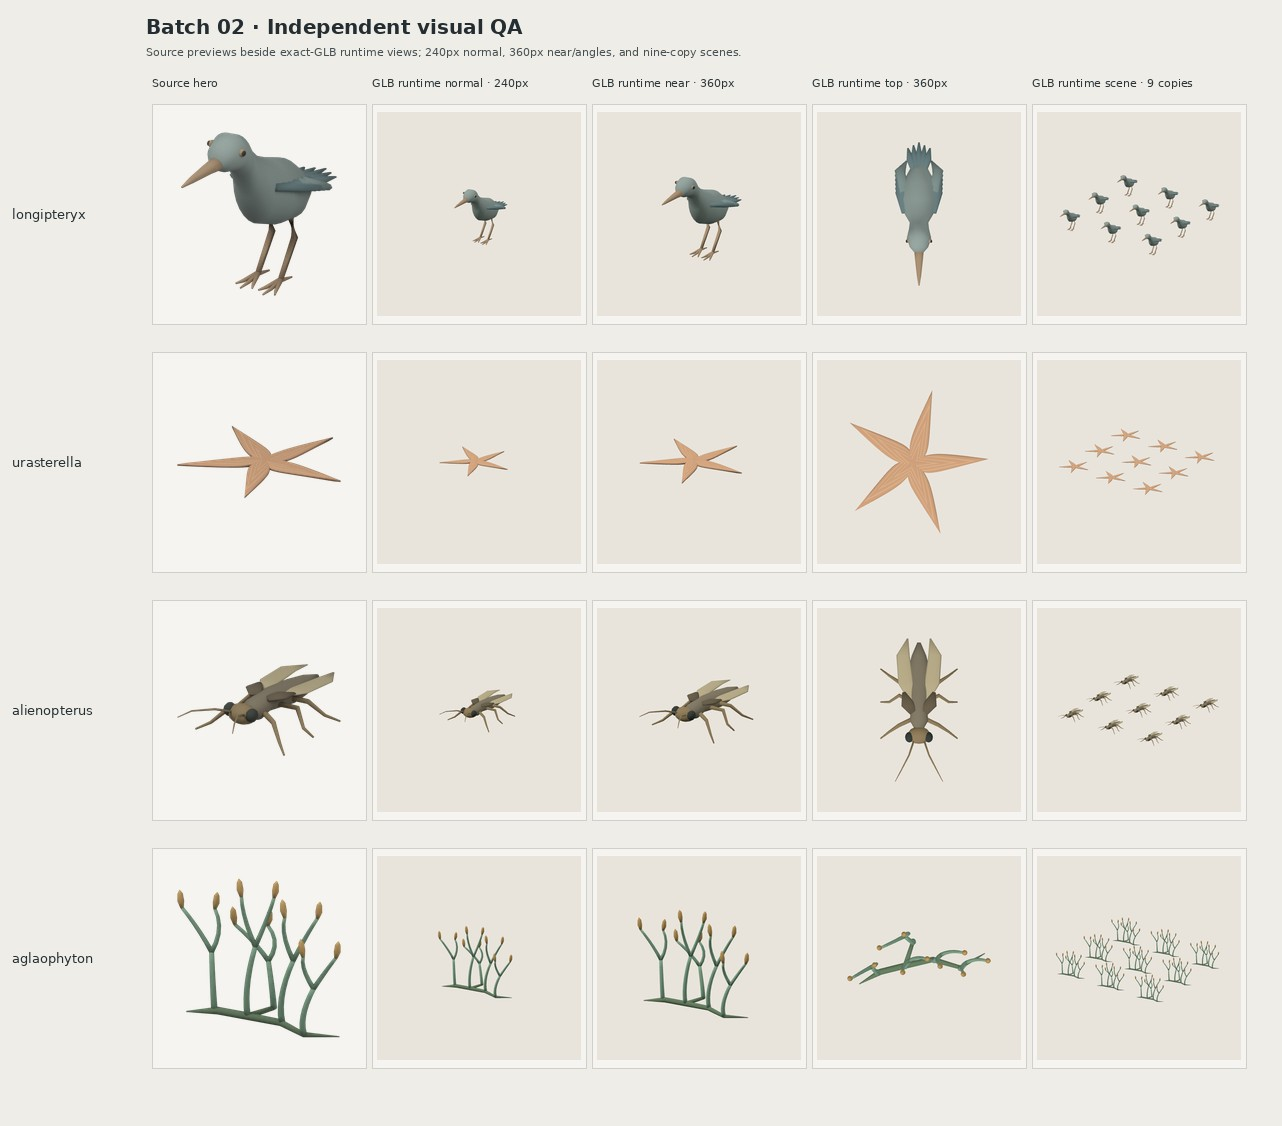
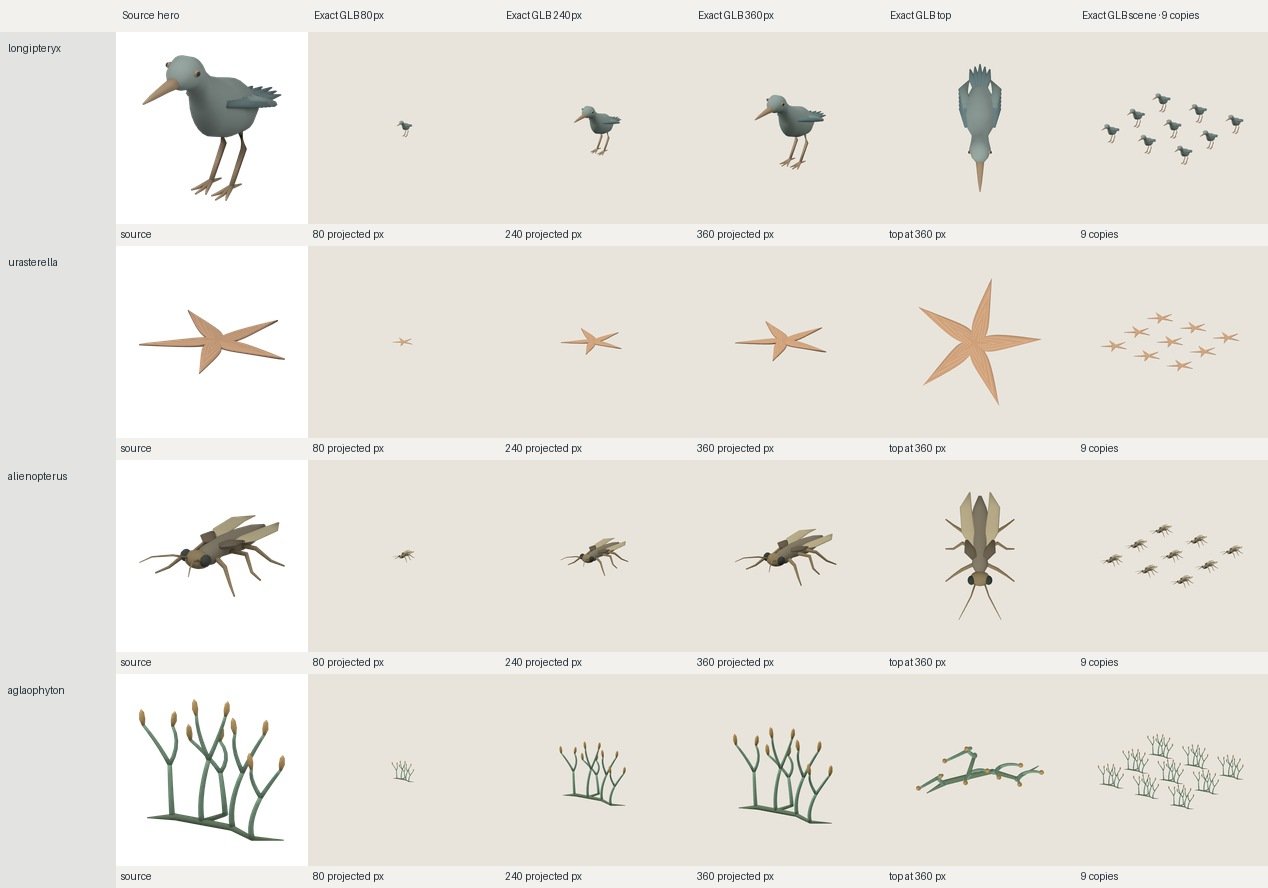
Strengthen batch 02 independent QA evidence

diff --git a/production/continuous-small-life-20261018/reviews/batch-02/independent-gpt6-luna-xhigh/build_contact_sheet.py b/production/continuous-small-life-20261018/reviews/batch-02/independent-gpt6-luna-xhigh/build_contact_sheet.py
@@ -1,0 +1,49 @@
+"""Build the independent review contact sheet from frozen source/runtime pixels."""
+from pathlib import Path
+from PIL import Image, ImageDraw, ImageFont
+
+HERE = Path(__file__).resolve().parent
+ROOT = HERE.parents[4]
+ASSET_ROOT = ROOT / "assets/candidates/continuous-small-life-20261018/batch-02/r001"
+OUT = HERE / "contact-sheet.jpg"
+NAMES = ("longipteryx", "urasterella", "alienopterus", "aglaophyton")
+HEADERS = ("Source hero", "Exact GLB 80px", "Exact GLB 240px", "Exact GLB 360px", "Exact GLB top", "Exact GLB scene · 9 copies")
+CELL, ROW_LABEL, HEADER, CAPTION = 192, 116, 32, 22
+FONT = ImageFont.load_default()
+width = ROW_LABEL + CELL * len(HEADERS)
+height = HEADER + len(NAMES) * (CELL + CAPTION)
+sheet = Image.new("RGB", (width, height), "#f2f1ed")
+draw = ImageDraw.Draw(sheet)
+for col, label in enumerate(HEADERS):
+    draw.text((ROW_LABEL + col*CELL + 6, 9), label, font=FONT, fill="#263139")
+
+for row, name in enumerate(NAMES):
+    source = ASSET_ROOT / name
+    runtime = source / "runtime"
+    images = [
+        source / "preview-hero.png",
+        HERE / "runtime80" / name / "runtime" / "small80.png",
+        runtime / "normal.png",
+        runtime / "near.png",
+        runtime / "top.png",
+        runtime / "scene.png",
+    ]
+    labels = ("source", "80 projected px", "240 projected px", "360 projected px", "top at 360 px", "9 copies")
+    y = HEADER + row * (CELL + CAPTION)
+    draw.rectangle((0, y, ROW_LABEL-1, y+CELL+CAPTION-1), fill="#e3e4e2")
+    draw.text((8, y+10), name, font=FONT, fill="#263139")
+    for col, (path, caption) in enumerate(zip(images, labels)):
+        if not path.is_file():
+            raise FileNotFoundError(path)
+        im = Image.open(path).convert("RGBA")
+        im.thumbnail((CELL-10, CELL-10), Image.Resampling.LANCZOS)
+        tile = Image.new("RGBA", (CELL, CELL), "#e8e4dc")
+        if path.name == "preview-hero.png":
+            tile = Image.new("RGBA", (CELL, CELL), "white")
+        tile.alpha_composite(im, ((CELL-im.width)//2, (CELL-im.height)//2))
+        x = ROW_LABEL + col * CELL
+        sheet.paste(tile.convert("RGB"), (x, y))
+        draw.text((x+5, y+CELL+4), caption, font=FONT, fill="#263139")
+
+sheet.save(OUT, quality=93, optimize=True)
+print(f"{OUT.relative_to(ROOT)} {OUT.stat().st_size} bytes")

diff --git a/production/continuous-small-life-20261018/reviews/batch-02/independent-gpt6-luna-xhigh/prepare_80_runtime.py b/production/continuous-small-life-20261018/reviews/batch-02/independent-gpt6-luna-xhigh/prepare_80_runtime.py
@@ -1,0 +1,31 @@
+"""Derive an 80px exact-GLB review runner without touching candidate outputs."""
+from pathlib import Path
+
+HERE = Path(__file__).resolve().parent
+ROOT = HERE.parents[4]
+SOURCE = ROOT / "production/continuous-small-life-20261018/work/batch-02/runtime.mjs"
+OUTPUT = HERE / "runtime80.mjs"
+text = SOURCE.read_text()
+old_out = "const dir=path.join(root,base,id),out=path.join(dir,'runtime');"
+new_out = (
+    "const dir=path.join(root,base,id),out=path.join(root,"
+    "'production/continuous-small-life-20261018/reviews/batch-02/"
+    "independent-gpt6-luna-xhigh/runtime80',id,'runtime');"
+)
+old_views = (
+    "for(const [name,view,extent,copies]of [['normal','hero',240,1],['near','hero',360,1],"
+    "...['reversehero','front','side','rear','top'].map(v=>[v,v,360,1]),['scene','hero',420,9]])"
+)
+new_views = "for(const [name,view,extent,copies]of [['small80','hero',80,1]])"
+old_wait = "await page.goto('http://127.0.0.1:'+port);await page.waitForFunction(()=>window.ready);const bytes="
+new_wait = (
+    "await page.goto('http://127.0.0.1:'+port);"
+    "try{await page.waitForFunction(()=>window.ready,null,{timeout:10000})}"
+    "catch(e){console.log('PAGE_ERROR',errors,await page.locator('body').innerText());throw e};"
+    "const bytes="
+)
+if text.count(old_out) != 1 or text.count(old_views) != 1 or text.count(old_wait) != 1:
+    raise SystemExit("Pinned runtime source no longer matches expected review patch")
+text = text.replace(old_out, new_out).replace(old_views, new_views).replace(old_wait, new_wait)
+OUTPUT.write_text(text)
+print(OUTPUT.relative_to(ROOT))

diff --git a/production/continuous-small-life-20261018/reviews/batch-02/independent-gpt6-luna-xhigh/INDEPENDENT-QA.md b/production/continuous-small-life-20261018/reviews/batch-02/independent-gpt6-luna-xhigh/INDEPENDENT-QA.md
@@ -6,39 +6,41 @@
 - 源分支：`candidate/small-life-batch-02-20261018`
 - 审核分支：`qa/s010s/small-life-batch-02-20261018`
 - 审核模型：GPT-6 Luna xhigh；日期：2026-10-18 UTC
[2 lines of base64/hex data omitted]
 
 ## 独立核验摘要
 
 我把 handoff 作为线索，而非 PASS 结论的依据。对四个 bundle 的 `checksums.sha256`（每项 37 个文件）、evidence manifest、candidate record、GLB、blend、16 张 manifest 图像及 Khronos 报告逐项复算。四个 GLB SHA 与精确源提交、manifest、runtime 报告及批次结果一致；每张 manifest 图像的字节数和 SHA 均一致。随附 Khronos 报告均为 0 errors / 0 warnings，报告中的 GLB digest 与实际文件相符。尺寸小于 100 KB 不作为缺陷。
 
-我用 Blender 4.3.2 分别打开源 blend 并导入同一 bundle 的 GLB，重新计算三角数、包围尺寸、位置集合、三角面积和边界边。源与 GLB 的三角数、以 `1e-7 m` 坐标精度比较的唯一位置集合及包围尺寸相符；四项均无零面积三角形，且没有任何三角形低于私有 checker 的 `1e-14 m²` 面积阈值。实际最小面积为：longipteryx `4.28717e-8 m²`、urasterella `7.34646e-10 m²`、alienopterus `1.68380e-10 m²`、aglaophyton `2.41147e-8 m²`。这些最小值分别约为该阈值的 4.29M、73.5K、16.8K 和 2.41M 倍；因此这批几何没有显示出阈值放宽掩盖退化面的迹象。GLB 叉积平方阈值 `1e-28 m⁴` 也远低于实测最小面的量级。
+我用 Blender 4.3.2 分别打开源 blend 并导入同一 bundle 的 GLB，重新计算三角数、包围尺寸、位置集合、三角面积和边界边。源与 GLB 的三角数、以 `1e-7 m` 坐标精度比较的唯一位置集合及包围尺寸相符；四项均无零面积三角形，且没有任何三角形低于私有 checker 的 `1e-14 m²` 面积阈值。实际最小 GLB 三角面积为：longipteryx `4.28717e-8 m²`、urasterella `7.34646e-10 m²`、alienopterus `1.68380e-10 m²`、aglaophyton `2.41147e-8 m²`。我也用原共享阈值复核：每项最小源面积都高于原 `1e-10 m²` 阈值；最小 GLB 叉积平方是 `1.134e-19 m⁴`（alienopterus），仍高于原 `1e-20 m⁴` 阈值。也就是说，阈值从 `1e-10/1e-20` 调到 `1e-14/1e-28` 没有改变任何一项的退化面判定；这些最小值也远高于本地阈值，没有迹象表明这次 PASS 是靠放宽阈值取得。
 
 urasterella 的 GLB 有 3,962 个 POSITION 顶点，而源 mesh 有 3,122 个唯一位置。独立导入确认这是法线/顶点拆分：以 `1e-8 m` 焊合位置后，恢复 3,122 个位置且边界/非流形边均为 0；源 mesh 本身也为 0。该现象不构成可见裂缝或缺面，且 Khronos 报告无警告。
 
-视觉检查直接查看了每项 8 张原始 source PNG、多角度 exact-GLB runtime 联系图，以及 GLB `normal`（240px target）、`near`（360px target）和九件同屏 `scene.png`。九件场景中各实例的屏幕投影约为 longipteryx `52–53×54–56px`、urasterella `74–75×32–34px`、alienopterus `62–66×37–38px`、aglaophyton 多数约 `73×70–71px`。缩小时轮廓仍可辨，适度近看未发现明显穿插、缺面或断裂。runtime 证据由 Three.js r180 / SwiftShader 提供；这证明静态解析与软件渲染，不代表实体 GPU 或目标设备性能。
+视觉检查直接查看了每项 8 张原始 source PNG、多角度 exact-GLB runtime 联系图，以及 GLB `small80.png`（80px）、`normal.png`（240px）、`near.png`（360px）、顶视图和九件同屏 `scene.png`。80px 目标下鸟、海星、昆虫、分叉植物仍各自可辨；适度近看未发现明显穿插、缺面或断裂。九件场景中各实例的屏幕投影约为 longipteryx `52–53×54–56px`、urasterella `74–75×32–34px`、alienopterus `62–66×37–38px`、aglaophyton 多数约 `73×70–71px`。runtime 证据由 Three.js r180 / SwiftShader 提供；这证明静态解析与软件渲染，不代表实体 GPU 或目标设备性能。
+
+审查了小尺度预览改动：Alienopterus 与 Aglaophyton 的相机最小正交跨度由共享 helper 的 `0.05 m` 改成 `0.00001 m`；Longipteryx 与 Urasterella 仍用 `0.05 m`。这只改变 source 预览相机。四个 exact-GLB 在 80/240/360px 及多角度 runtime 中另行检查；相机调整没有藏住可见的接点、薄片或轮廓问题。Aglaophyton 的最大尺寸超过 0.05 m，因此对它的预览取景实际上没有影响。
 
 ## 逐项判定
 
 ### longipteryx — PASS
 
[2 lines of base64/hex data omitted]
 - **视觉：** 长而窄的喙、鸟形躯干、折叠翼/短尾羽、双腿与脚趾在原始视图和 GLB 视图中都连贯；正侧顶及反向视图没有明显破面或比例断层。九件同屏中单只约 `52×55px`，脚趾细节会自然收缩，但鸟形及长喙轮廓仍读得出。
 - **必须问题：** 无。
-- **非阻塞建议：** 无需改模；保持目前已接受的自然低模处理。
+- **非阻塞建议：** 无需改模；保持目前已接受的自然低模处理。近期羽毛描述称已知 Longipteryx 标本没有尾羽痕迹；此处短尾扇应视为艺术化造型，不要在标签中当作该属特征。[Clark et al., Journal of Paleontology (2026)](https://www.cambridge.org/core/journals/journal-of-paleontology/article/plumage-of-longipteryx-aves-enantiornithes/86992F399FDADC4CA0E218EDF578DF55)
 - 证据：[bundle](../../../../../assets/candidates/continuous-small-life-20261018/batch-02/r001/longipteryx/)、[source 多角度](../../../../../assets/candidates/continuous-small-life-20261018/batch-02/r001/longipteryx/contact-sheet.jpg)、[exact GLB 多角度](../../../../../assets/candidates/continuous-small-life-20261018/batch-02/r001/longipteryx/runtime/contact-sheet.jpg)。
 
 ### urasterella — PASS
 
[2 lines of base64/hex data omitted]
 - **视觉：** 顶视能辨出中央盘与五条分离、渐尖的腕；背面、正面及极薄侧视连续。整体厚度约为腕展的 4.1%，但这符合 brief 的低剖面方向；在正常与近看尺寸均未发现缺臂、断接或破洞。
 - **必须问题：** 无。
-- **非阻塞建议：** 无需改模。表面放射纹在 360px 近看较明显，属于当前风格选择，不影响五腕轮廓。
+- **非阻塞建议：** 无需改模。表面放射纹在 360px 近看较明显，属于当前风格选择，不影响五腕轮廓。Digital Atlas 的页面确认所列 PRI 76788 是泥盆纪 Urasterella 海星标本，但嵌入 Sketchfab 视图返回 403；因此五腕、板片节律只按 brief 中的 stylized-inspired 造型要求评估，不宣称逐项复原该标本。
 - 证据：[bundle](../../../../../assets/candidates/continuous-small-life-20261018/batch-02/r001/urasterella/)、[source 多角度](../../../../../assets/candidates/continuous-small-life-20261018/batch-02/r001/urasterella/contact-sheet.jpg)、[exact GLB 多角度](../../../../../assets/candidates/continuous-small-life-20261018/batch-02/r001/urasterella/runtime/contact-sheet.jpg)。
 
 ### alienopterus — PASS
 
[2 lines of base64/hex data omitted]
 - **视觉：** 头、分节躯干、六条腿、短前翅盖与长后翅在顶、正、侧、背及反向视图里都能区分；各部件根部连续，无明显穿插或缺面。九件同屏中单只约 `62–66×37–38px`，腿会变细，但昆虫轮廓仍清楚。
 - **必须问题：** 无。
 - **非阻塞建议：** 无需改模。
@@ -46,7 +48,7 @@ urasterella 的 GLB 有 3,962 个 POSITION 顶点，而源 mesh 有 3,122 个唯
 
 ### aglaophyton — PASS
 
[2 lines of base64/hex data omitted]
 - **视觉：** 匍匐基部、向上分叉的裸轴和终端纺锤形孢子囊在原始及运行时视图中都可读；分枝衔接连续，顶视没有异常扭转，未见叶片/花状误读或缺面。
 - **必须问题：** 无。
 - **非阻塞建议：** 模型无需修改。九件同屏图里少数分枝投影靠近相邻实例；若以后将该图用作展示构图，可稍微增加实例间距。
@@ -54,7 +56,13 @@ urasterella 的 GLB 有 3,962 个 POSITION 顶点，而源 mesh 有 3,122 个唯
 
 ## 事实范围与局限
 
-四项 brief 均限定为 *stylized-inspired*。handoff 的 `actual-reference-access.json` 说明部分外部化石图像/Sketchfab 视图因 403 未能下载；我没有把这些文件当作已查看，也没有据此要求推测性细节。此次只核对 brief 规定的基本形态和可见造型：五腕海星、长喙鸟、六足双翅昆虫、无叶分叉轴与终端孢子囊。颜色、软组织、精确比例/姿势/数量及严格物种学精度不在本次 PASS 声明内。
+四项 brief 均限定为 *stylized-inspired*。handoff 的 `actual-reference-access.json` 说明部分外部化石图像/Sketchfab 视图因 403 未能下载；我没有把这些文件当作已查看。另行核对可访问的文字来源后，只按 brief 声明的基本形态与轮廓判定：五腕海星、具长喙的鸟、短前翅盖/较长后翅昆虫、无叶分叉轴与终端孢子囊。Longipteryx 的长吻、喙端齿与无尾羽证据见 Clark et al. (2026) 的新标本描述；[2024 年饮食论文](https://www.cell.com/current-biology/fulltext/S0960-9822%2824%2901124-2)报告标本腹腔内有种子，后者不支持捕食场景。[Clark et al. (2026), *Journal of Paleontology*](https://www.cambridge.org/core/journals/journal-of-paleontology/article/plumage-of-longipteryx-aves-enantiornithes/86992F399FDADC4CA0E218EDF578DF55)。Urasterella 来源页确认数字档案中的 PRI 76788 是泥盆纪海星标本，但五腕数量及板片细节并没有通过不可访问的 Sketchfab 图像独立确认；周围岩石尺寸没有当作动物尺寸。[Digital Atlas of Ancient Life: Asteroidea](https://www.digitalatlasofancientlife.org/vc/echinodermata/asteroidea/)。Alienopterus 的短前翅与发达后翅见 Bai et al. (2016) 原始描述的摘要（DOI `10.1016/j.gr.2016.02.002`）。Aglaophyton 的下伏/匍匐轴、二歧分枝与植株重建见 Edwards (1986) 原始描述的摘要；顶生纺锤形孢子囊见 Kerp et al. (2017) 对 Rhynie chert 植物器官的综述。[Edwards (1986), *Botanical Journal of the Linnean Society*](https://doi.org/10.1111/j.1095-8339.1986.tb01020.x)；[Kerp et al. (2017)](https://pmc.ncbi.nlm.nih.gov/articles/PMC5745331/)。我没有据此宣称完全复原、精确尺寸、颜色、局部共存或行为；软组织、羽毛/翅面细节和数量比例仍属艺术选择。
+
+## 阈值与旧验收器说明
+
+历史共享 helper 使用 source area `<1e-10 m²` 和 GLB cross-product-squared `<1e-20 m⁴`；bundle 内冻结 checker 使用 `<1e-14 m²` 与 `<1e-28 m⁴`。上述源/GLB实测最小面均高于旧阈值，因此旧阈值下也都是零个被标为退化的三角形。零面积、非有限坐标、拓扑闭合与官方 Khronos 报告均另行核对；降阈值没有让一个原本会被拒绝的模型通过。
+
+`validate_candidate.py` 是另一套历史 record contract。本次只读执行对 Longipteryx 返回 `maker: expected object`，未触及 brief；源码还要求 turntable 至少 2 帧且 production 视图包含 9 项，而本批 frozen brief 明确是 8 张固定图、0 帧 turntable。该 gate 与 `practical-fixed-eight-v1` record/brief 不兼容，不能把它的旧 schema 错误说成几何或视觉失败，也不能用伪造 turntable 让它通过。`verify_batch02.py` 的 PASS 仅代表交付完整性与 maker 技术报告一致；本独立视觉/事实结论另行完成。该旧 gate 的集成处理交由父任务。
 
 ## 实际执行命令
 
@@ -63,8 +71,17 @@ git fetch origin 29b0ceb97ae74d77846f7576cf9552fe178accb9
 git worktree add -b qa/s010s/small-life-batch-02-20261018 /tmp/batch02-qa 29b0ceb97ae74d77846f7576cf9552fe178accb9
 
 # 在 /tmp/batch02-qa 仓库根目录执行
+python production/continuous-small-life-20261018/work/batch-02/verify_batch02.py
 python3 production/continuous-small-life-20261018/reviews/batch-02/independent-gpt6-luna-xhigh/audit_hashes.py --repo .
 blender -b --python production/continuous-small-life-20261018/reviews/batch-02/independent-gpt6-luna-xhigh/audit_meshes.py -- assets/candidates/continuous-small-life-20261018/batch-02/r001
+python3 production/continuous-small-life-20261018/work/batch-02/lib/qa_glb.py assets/candidates/continuous-small-life-20261018/batch-02/r001/longipteryx/longipteryx.glb --max-triangles 14000 --max-materials 6 --max-primitives 30
+python3 production/continuous-small-life-20261018/work/batch-02/lib/qa_glb.py assets/candidates/continuous-small-life-20261018/batch-02/r001/urasterella/urasterella.glb --max-triangles 14000 --max-materials 6 --max-primitives 30
+python3 production/continuous-small-life-20261018/work/batch-02/lib/qa_glb.py assets/candidates/continuous-small-life-20261018/batch-02/r001/alienopterus/alienopterus.glb --max-triangles 14000 --max-materials 6 --max-primitives 30
+python3 production/continuous-small-life-20261018/work/batch-02/lib/qa_glb.py assets/candidates/continuous-small-life-20261018/batch-02/r001/aglaophyton/aglaophyton.glb --max-triangles 14000 --max-materials 6 --max-primitives 30
+python3 production/continuous-small-life-20261018/reviews/batch-02/independent-gpt6-luna-xhigh/prepare_80_runtime.py
+node production/continuous-small-life-20261018/reviews/batch-02/independent-gpt6-luna-xhigh/runtime80.mjs longipteryx urasterella alienopterus aglaophyton
+python3 production/continuous-small-life-20261018/reviews/batch-02/independent-gpt6-luna-xhigh/build_contact_sheet.py
+python3 scripts/validate_candidate.py assets/candidates/continuous-small-life-20261018/batch-02/r001/longipteryx/candidate.json --root . --json
 ```
 
-哈希审计每项输出 `PASS`，校验 37/37 bundle checksum 与 16/16 manifest 图像；Blender 审计每项输出 `PASS`。两个脚本只读取候选，不会重写模型或证据文件。
+哈希审计每项输出 `PASS`，校验 37/37 bundle checksum 与 16/16 manifest 图像；Blender 审计每项输出 `PASS`；80px exact-GLB report 均绑定相应 GLB digest、无 GL error，Three.js r180 渲染 PASS。Three.js `0.180.0` 与 Playwright `1.56.1` 安装在 `/tmp/batch02-deps`；运行时仅在仓库根临时添加并移除 `node_modules` 符号链接。候选 bundle 没有被改写。历史 validator 按预期输出 `maker: expected object`。机器日志留在 `hash-audit.txt`、`mesh-audit.txt` 和 `runtime80/`。
